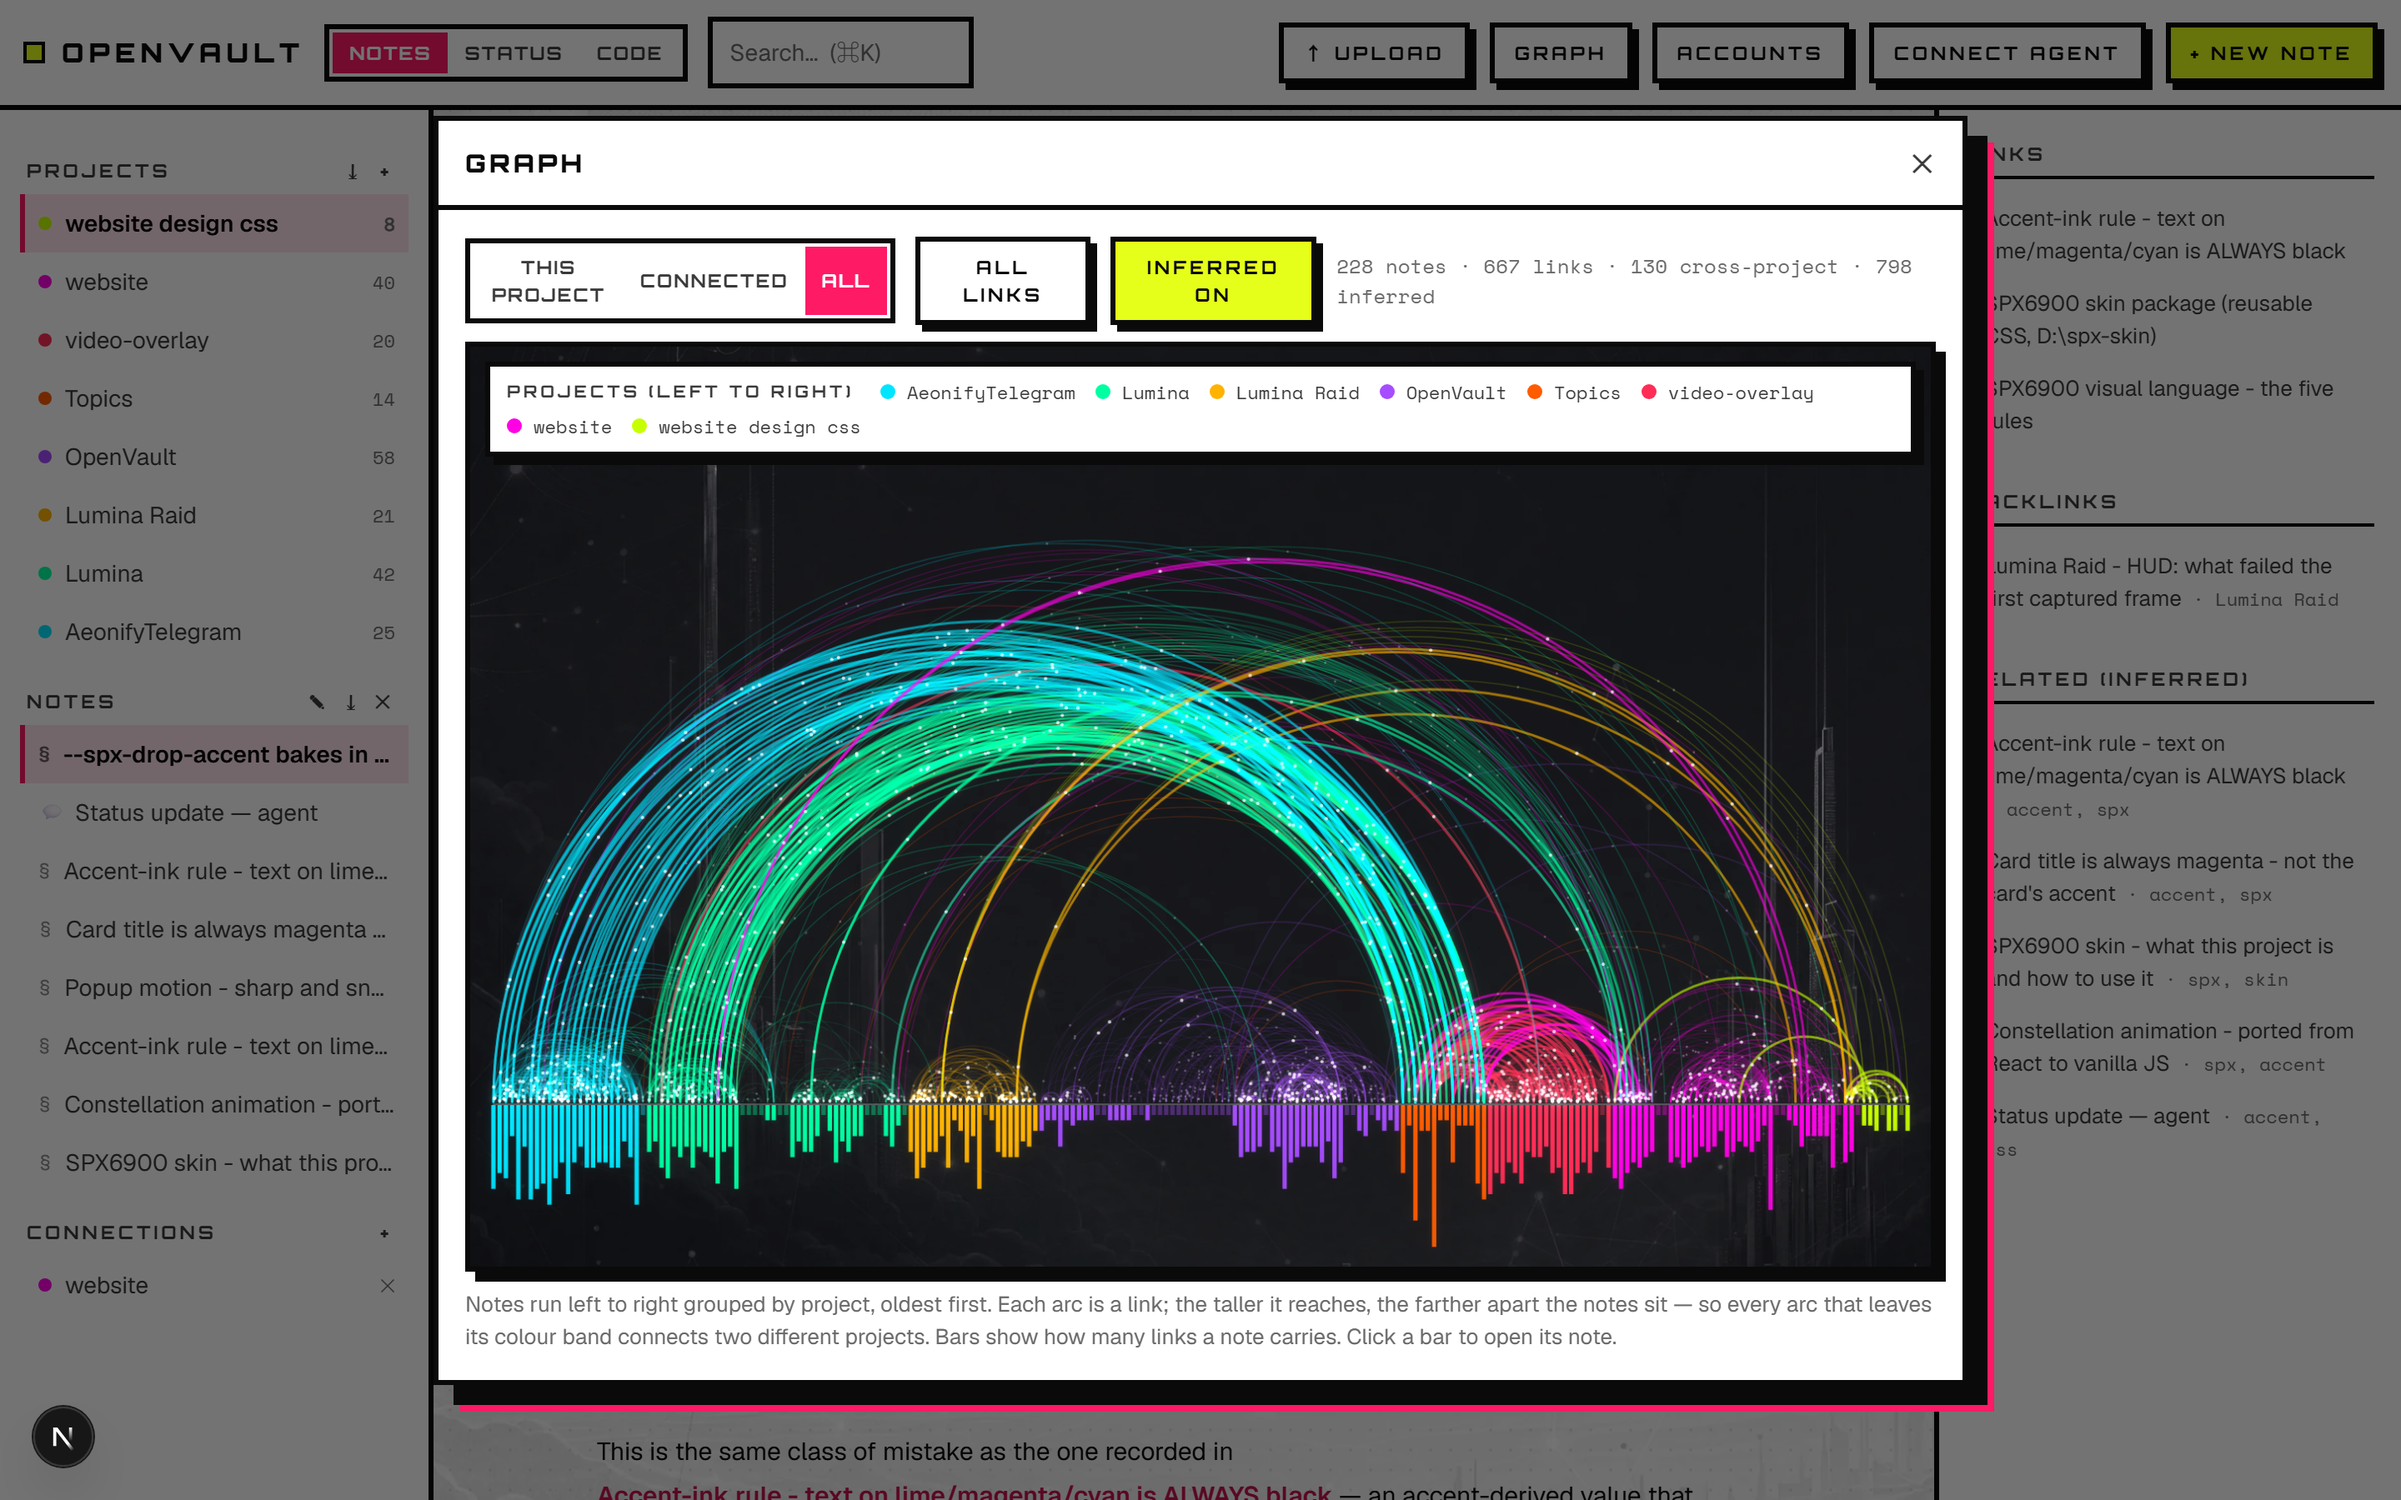
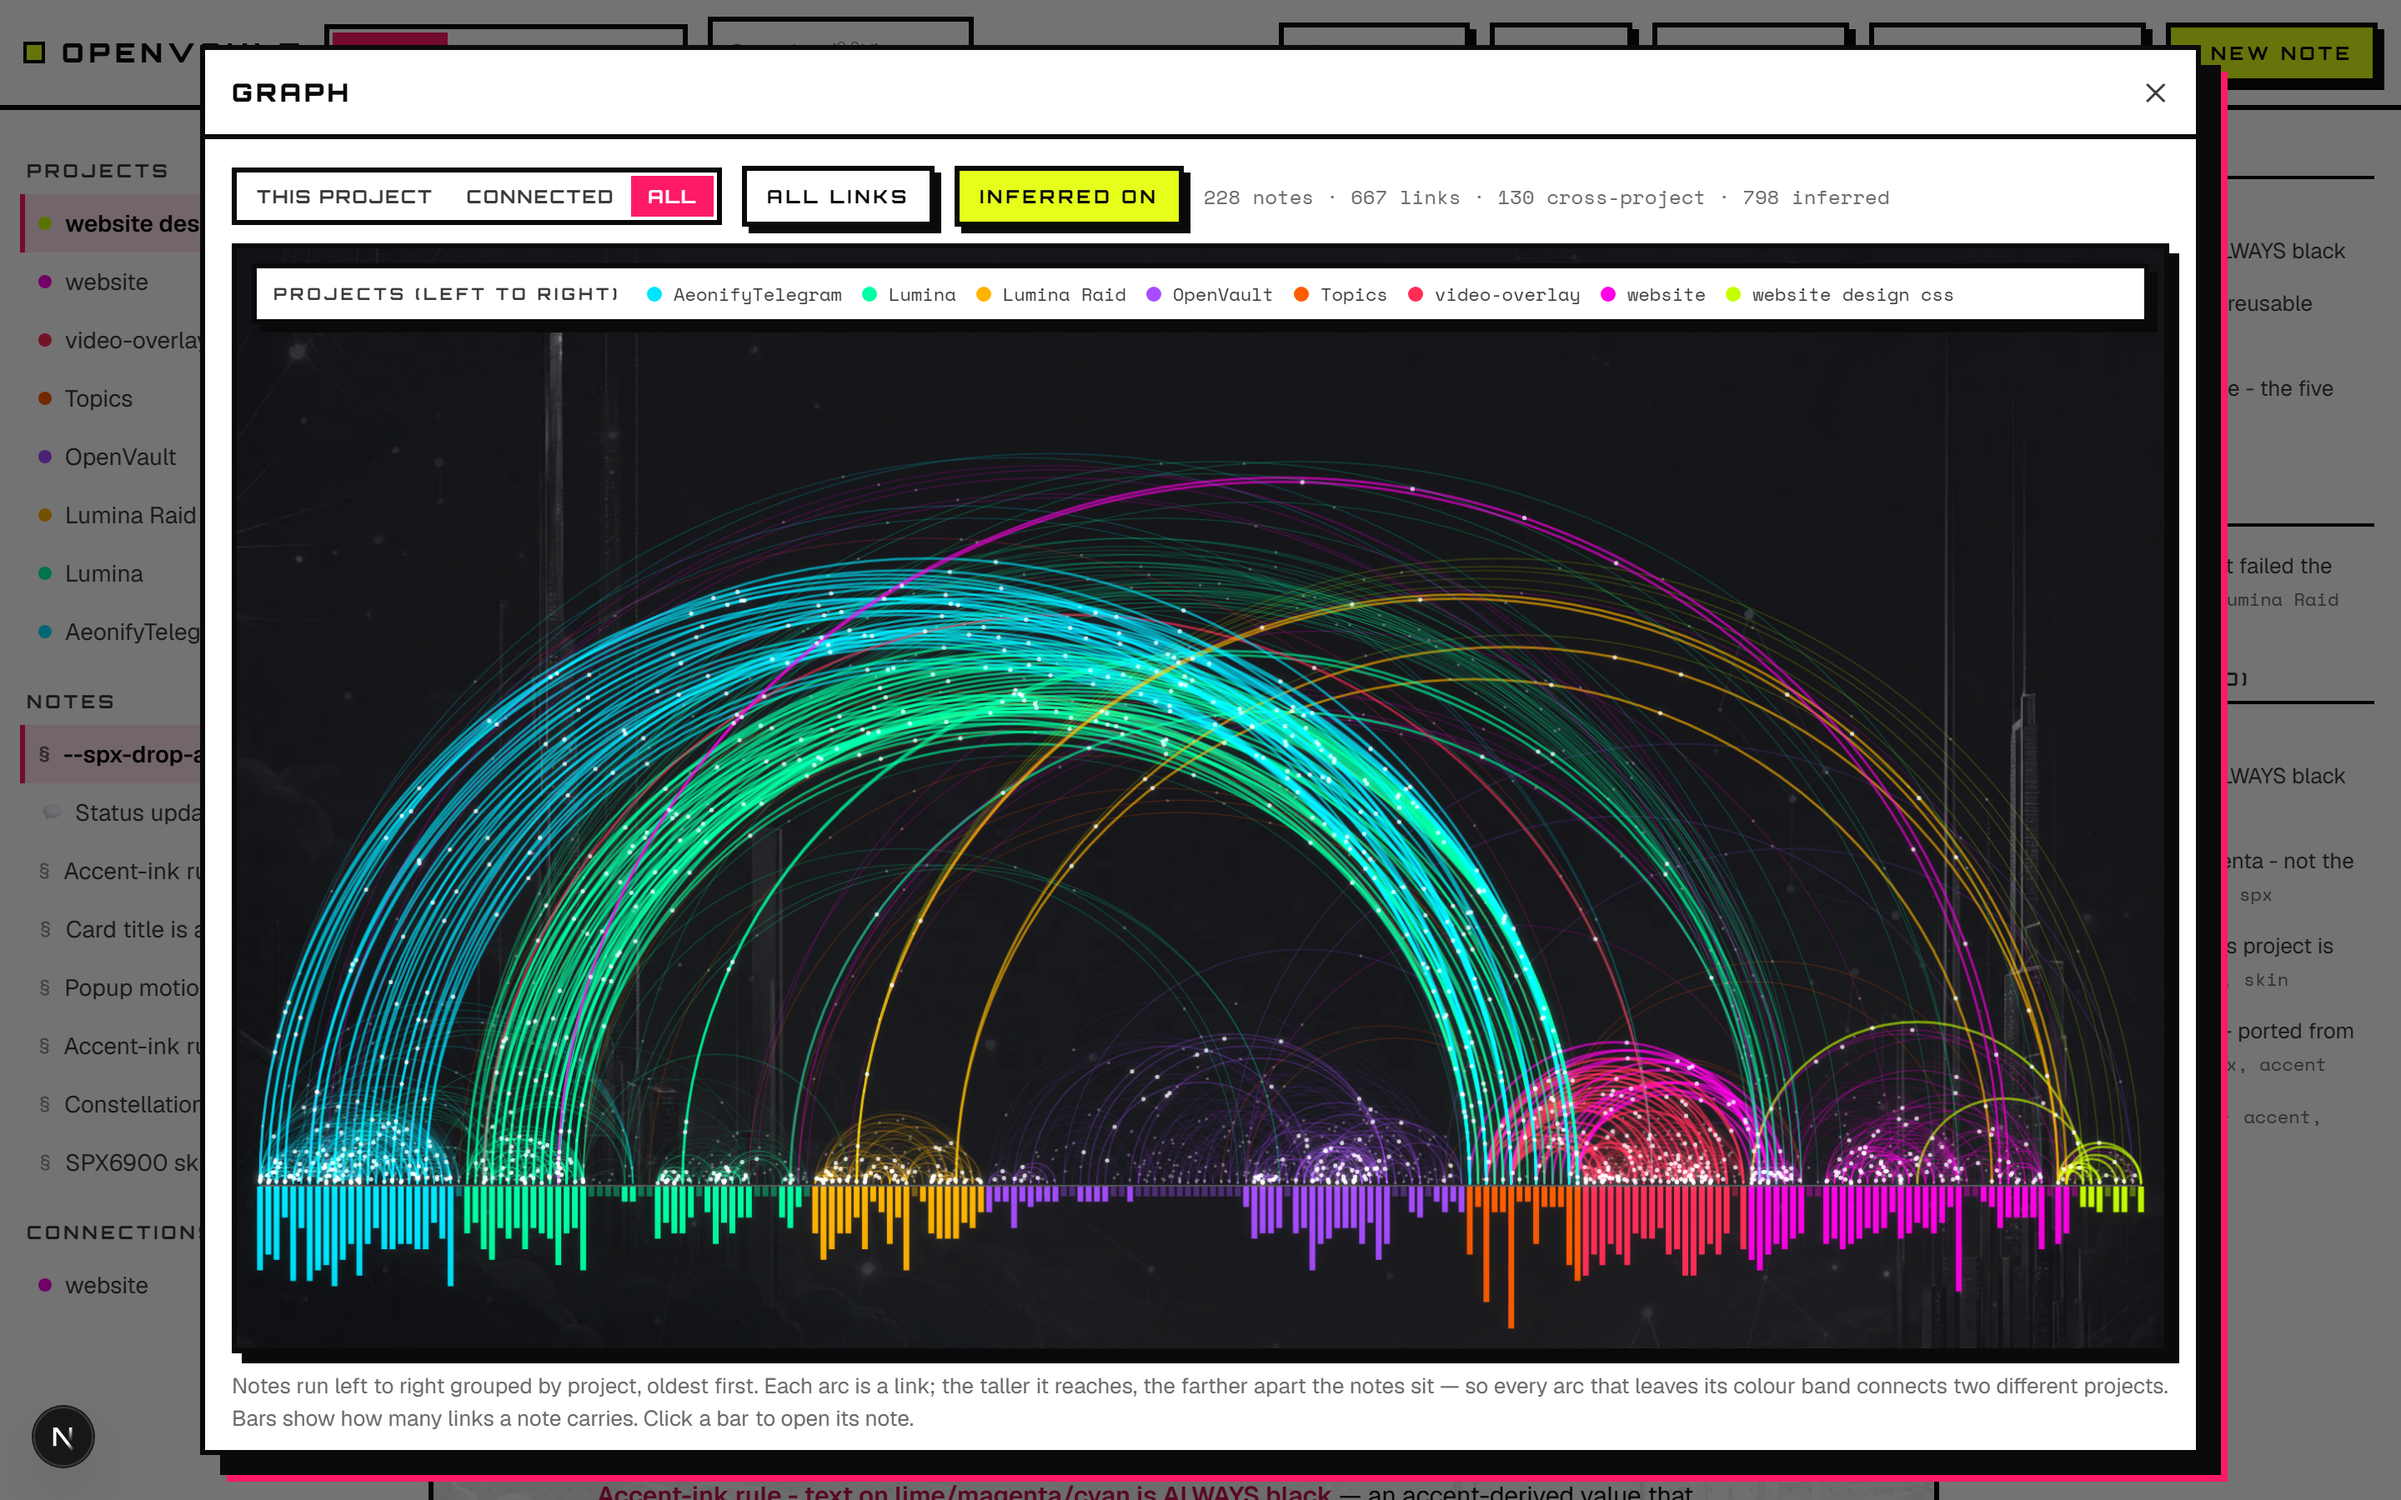
Give the arc diagram its own, larger dialog
The graph shared the default dialog size with every other modal, and 920px was
cramping a picture whose whole point is width. It gets its own modifier rather
than a wider .modal, so the connect and upload dialogs stay where they were:
920 -> 1200px, and the cap raised to 94vh so the canvas can grow with it,
62vh -> 74vh. Measured after: modal 1200 wide, canvas 670 tall, against 920 and
558. The controls row and the project legend now each fit on one line, which
they did not before.

Height could not take the full 30% the width did. At a 900px viewport the modal
chrome is around 19vh, so a 30% taller canvas would need 100vh inside an 88vh
box; 74vh is what fits under the raised cap.

Dot radii go back to their pre-shrink values, since a third more stage makes
the same dot cover proportionally less of it: 1.3 crisp, 0.9 inferred, 2.6 in
the glow buffer.

Also adds .claude/launch.json, which the repo was missing -- the dev server has
to be startable by name.

diff --git a/src/components/ArcView.tsx b/src/components/ArcView.tsx
@@ -438,13 +438,15 @@ export default function ArcView({
           // dots are for — the sense of discrete packets in motion.
           gctx.fillStyle = `rgba(255,255,255,${0.5 * p.hot * Math.max(0.5, lit)})`;
           gctx.beginPath();
-          gctx.arc(p.x, p.y, 2.08, 0, Math.PI * 2);
+          gctx.arc(p.x, p.y, 2.6, 0, Math.PI * 2);
           gctx.fill();
         }
         // One crisp core, no mid halo: the bloom pass supplies the softness.
+        // Back to the pre-shrink radii — the dialog is a third wider now, so
+        // the same dot covers proportionally less of the stage than it did.
         ctx.fillStyle = `rgba(255,255,255,${0.92 * p.hot})`;
         ctx.beginPath();
-        ctx.arc(p.x, p.y, p.weak ? 0.72 : 1.04, 0, Math.PI * 2);
+        ctx.arc(p.x, p.y, p.weak ? 0.9 : 1.3, 0, Math.PI * 2);
         ctx.fill();
       }
 

diff --git a/src/app/globals.css b/src/app/globals.css
@@ -616,6 +616,16 @@ textarea {
   flex-direction: column;
   box-shadow: 12px 12px 0 0 var(--ink), 16px 16px 0 0 var(--magenta);
 }
+/* The arc diagram is a wide picture and the default dialog width was cramping
+   it. Its own size, not every dialog's: 920 -> 1200px, and a taller cap so the
+   canvas below can grow with it. */
+.modal--graph {
+  width: min(1200px, 96vw);
+  max-height: 94vh;
+}
+.modal--graph .arc-canvas {
+  height: 74vh;
+}
 .modal-head {
   display: flex;
   align-items: center;

diff --git a/src/components/AppShell.tsx b/src/components/AppShell.tsx
@@ -915,7 +915,7 @@ export default function AppShell() {
 
       {showGraph && activeProjectId && (
         <div className="overlay" onClick={() => setShowGraph(false)}>
-          <div className="modal" onClick={(e) => e.stopPropagation()}>
+          <div className="modal modal--graph" onClick={(e) => e.stopPropagation()}>
             <div className="modal-head">
               <span>Graph</span>
               <div className="spacer" />
